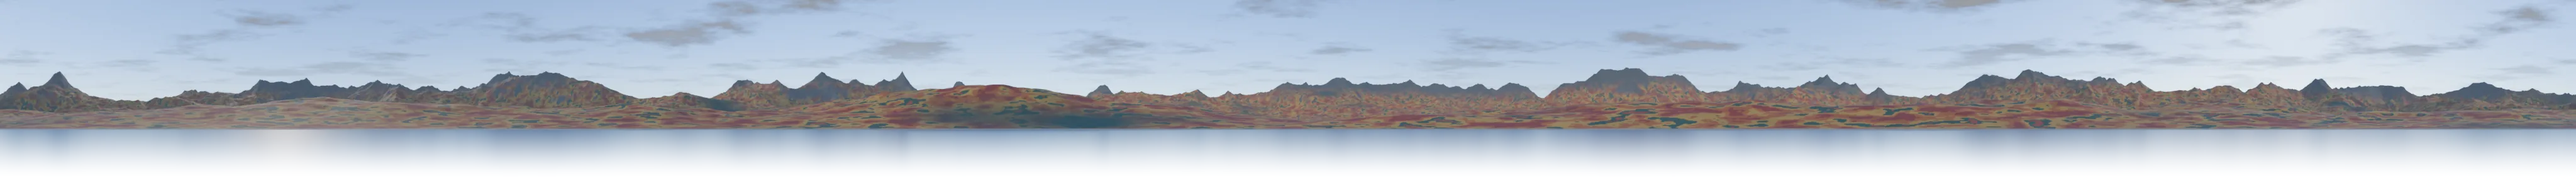
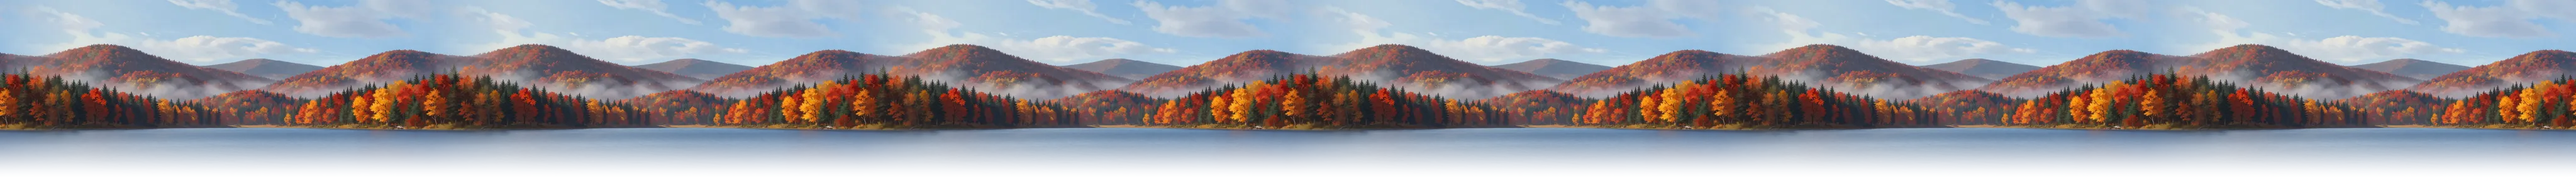
Lago de otoño pintado con el estilo de los héroes (0.105.1) (#120)
* Fiordo pintado con el estilo de los héroes, con suelo y agua pintados en 3D (0.98.0)

Claude-Session: https://claude.ai/code/session_01YU6HPKNqDAini2Aa6w3kXk

* Laguna tropical pintada con el estilo de los héroes, con arena y agua pintadas en 3D (0.100.0)

Claude-Session: https://claude.ai/code/session_01YU6HPKNqDAini2Aa6w3kXk

* Prueba de temporizador frenado: esperar a que la sesión de los 20 s esté guardada

La escritura de la sesión en curso es asíncrona; con el CI cargado, la de los 20 s llegaba
después de leerla y la prueba comparaba contra la copia de los 10 s.

Claude-Session: https://claude.ai/code/session_01YU6HPKNqDAini2Aa6w3kXk

* Vista aérea 2D con más paisaje: orillas anchas en vertical, agua pintada del fiordo (0.100.1)

Claude-Session: https://claude.ai/code/session_01YU6HPKNqDAini2Aa6w3kXk

* Vista previa de paisajes y piezas del bote en la tienda

Claude-Session: https://claude.ai/code/session_01YU6HPKNqDAini2Aa6w3kXk

* Icono de vista previa sin fondo

Claude-Session: https://claude.ai/code/session_01YU6HPKNqDAini2Aa6w3kXk

* Vista previa en un módulo que se carga al tocarla: la primera carga vuelve a quedar bajo 380 KB de JS

Claude-Session: https://claude.ai/code/session_01YU6HPKNqDAini2Aa6w3kXk

* Cañón del desierto pintado con el estilo de los héroes, con tierra roja y agua pintadas

Claude-Session: https://claude.ai/code/session_01YU6HPKNqDAini2Aa6w3kXk

* Herramientas: procesar.py (clave magenta por croma) y puntos del cañón
[…]

diff --git a/src/carrera.js b/src/carrera.js
@@ -124,6 +124,11 @@ Object.assign(PAISAJES, {
 // Colección de paisajes propios (v0.54.0): cinco escenarios con su panorama, su orilla 3D y su costa 2D, renderizados
 // en Blender con tools/blender/paisaje/coleccion (objetos.py, temas.py, panorama.py, orilla.py y costa.py).
 const propio = (id, x) => ({
+  ...(x.pintado && {
+    agua: { src: `assets/carrera/${id}_agua3d.webp`, m: 9 },
+    suelo3d: { src: `assets/carrera/${id}_suelo.webp`, m: 8 },
+    aguaTextura3d: { src: `assets/carrera/${id}_agua3d.webp`, m: 10 },
+  }),
   ...x,
   miniatura: `assets/carrera/${id}_mini.webp`,
   panorama: { src: `assets/carrera/${id}.webp`, horizonte: 204 },
@@ -135,9 +140,7 @@ Object.assign(PAISAJES, {
     nombre: 'Cañón del desierto',
     texto: 'Mesetas rojas, saguaros y casas de adobe junto al río.',
     precio: 700,
-    agua: { src: 'assets/carrera/canon_agua3d.webp', m: 9 },
-    suelo3d: { src: 'assets/carrera/canon_suelo.webp', m: 8 },
-    aguaTextura3d: { src: 'assets/carrera/canon_agua3d.webp', m: 10 },
+    pintado: true,
     orilla: {
       piezas: {
         saguaro_alto: { x: 0, y: 0, w: 238, h: 651, pie: [0.5, 0.987], m: 10.18 },
@@ -166,6 +169,7 @@ Object.assign(PAISAJES, {
     nombre: 'Lago de otoño',
     texto: 'Bosque de arces rojos y dorados, cabañas de troncos y una canoa.',
     precio: 1100,
+    pintado: true,
     orilla: {
       piezas: {
         pino: { x: 0, y: 0, w: 451, h: 752, pie: [0.5, 0.996], m: 11.75 },

diff --git a/src/version.js b/src/version.js
@@ -1,2 +1,2 @@
 // Versión de la app: la misma que la caché del service worker (sw.js). Súbela al publicar cambios.
-export const VERSION = '0.105.0';
+export const VERSION = '0.105.1';

diff --git a/tools/paisaje-pintado/procesar.py b/tools/paisaje-pintado/procesar.py
@@ -48,7 +48,7 @@ def objetos(path):
     # Fondo magenta: se mide por lo «magenta» (min(R,B) − G), no por la distancia al color. Así las rocas rojas
     # y el adobe rosado no se toman por fondo (antes salían transparentes a medias y verdosos).
     M=np.minimum(im[...,0],im[...,2])-im[...,1]; bM=min(bg[0],bg[2])-bg[1]
-    alpha=np.clip((0.8*bM-M)/(0.4*bM),0,1)
+    alpha=np.clip((0.6*bM-M)/(0.5*bM),0,1)
   alpha=np.minimum(alpha,cv2.erode(alpha.astype(np.float32),np.ones((3,3),np.uint8)))
   a3=np.clip(alpha,0.05,1)[...,None]
   sp=np.where(alpha[...,None]<1,(im-(1-a3)*bg)/a3,im)
@@ -95,7 +95,7 @@ def sin_costura(im):
 sin_costura(Image.open(G+f'{k}_suelo.png').convert('RGB')).resize((256,256),Image.LANCZOS).save(O+f'{k}_suelo.webp',quality=78)
 CAJA_AGUA={'canon':(120,70,512,430)}.get(k,(0,200,512,512))
 a=Image.open(G+f'{k}_agua.png').convert('RGB').crop(CAJA_AGUA).resize((512,512))
-ag=np.asarray(sin_costura(a)).astype(np.float32); cf={'canon':2.2}.get(k,1.0)
+ag=np.asarray(sin_costura(a)).astype(np.float32); cf={'canon':2.2,'otono':2.4}.get(k,1.0)
 ag=(ag-ag.reshape(-1,3).mean(0))*cf+ag.reshape(-1,3).mean(0)
 Image.fromarray(ag.clip(0,255).astype(np.uint8)).resize((256,256),Image.LANCZOS).save(O+f'{k}_agua3d.webp',quality=78)
 for f in sorted(os.listdir(O)): print(f, os.path.getsize(O+f))

diff --git a/CHANGELOG.md b/CHANGELOG.md
@@ -2,6 +2,14 @@
 
 Lo que cambia en cada versión de Rower. La versión de la app vive en `src/version.js`; esta lista empieza siempre por esa versión (lo comprueba `pruebas/version.test.mjs`).
 
+## 0.105.1 · 2026-11-23
+
+El Lago de otoño, repintado con el estilo de los héroes.
+
+- **Otoño pintado.** Colinas con arces rojos y dorados entre niebla y un lago azul; pinos, arces, abedules, cabaña de troncos, rocas, helechos y canoa pintados con el mismo motor y la misma mano que los retratos.
+- **Hojas caídas y agua azul pintadas en la vista 3D**, con bruma lejana; también hay agua pintada en el canal de la vista 2D y una costa 2D con bosque y cabaña.
+- Miniatura nueva en la tienda.
+
 ## 0.105.0 · 2026-11-23
 
 Menos texto arriba de cada pestaña y Misiones más corta.
